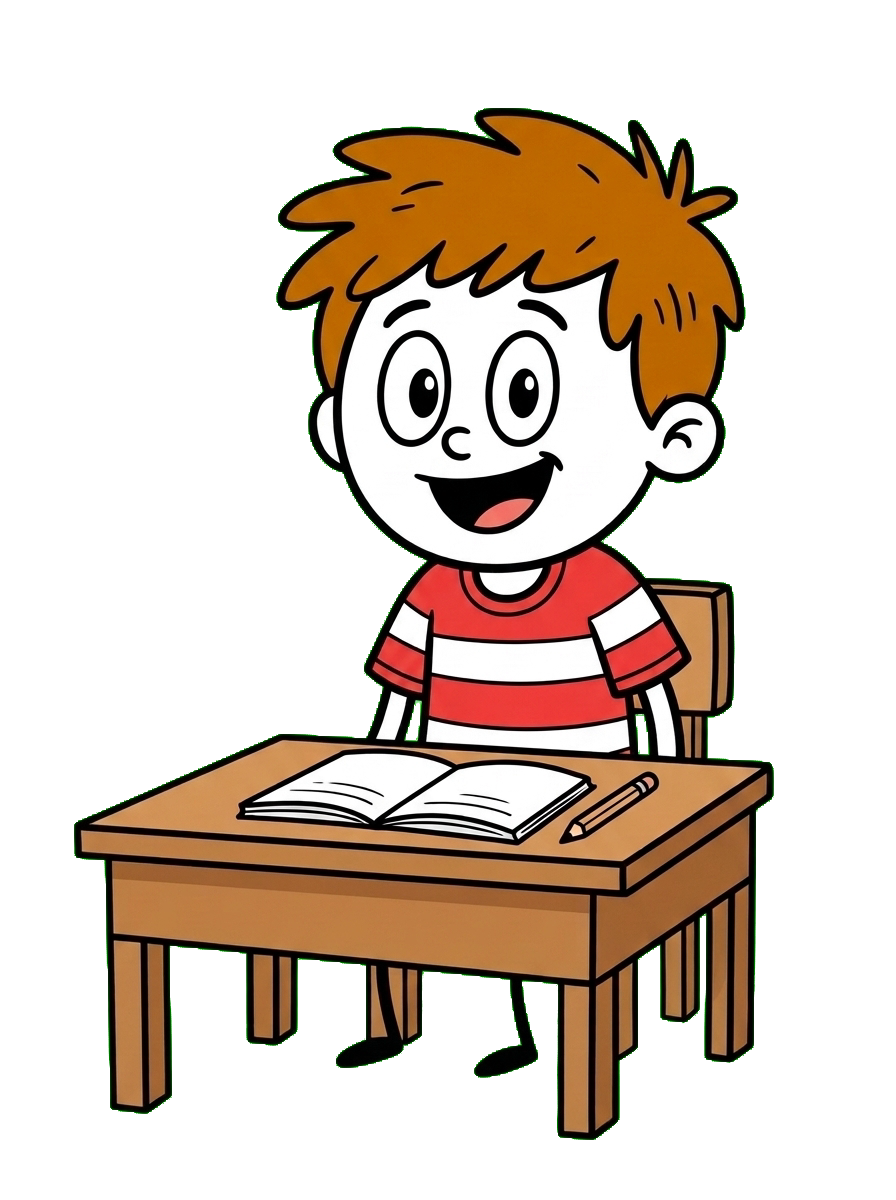
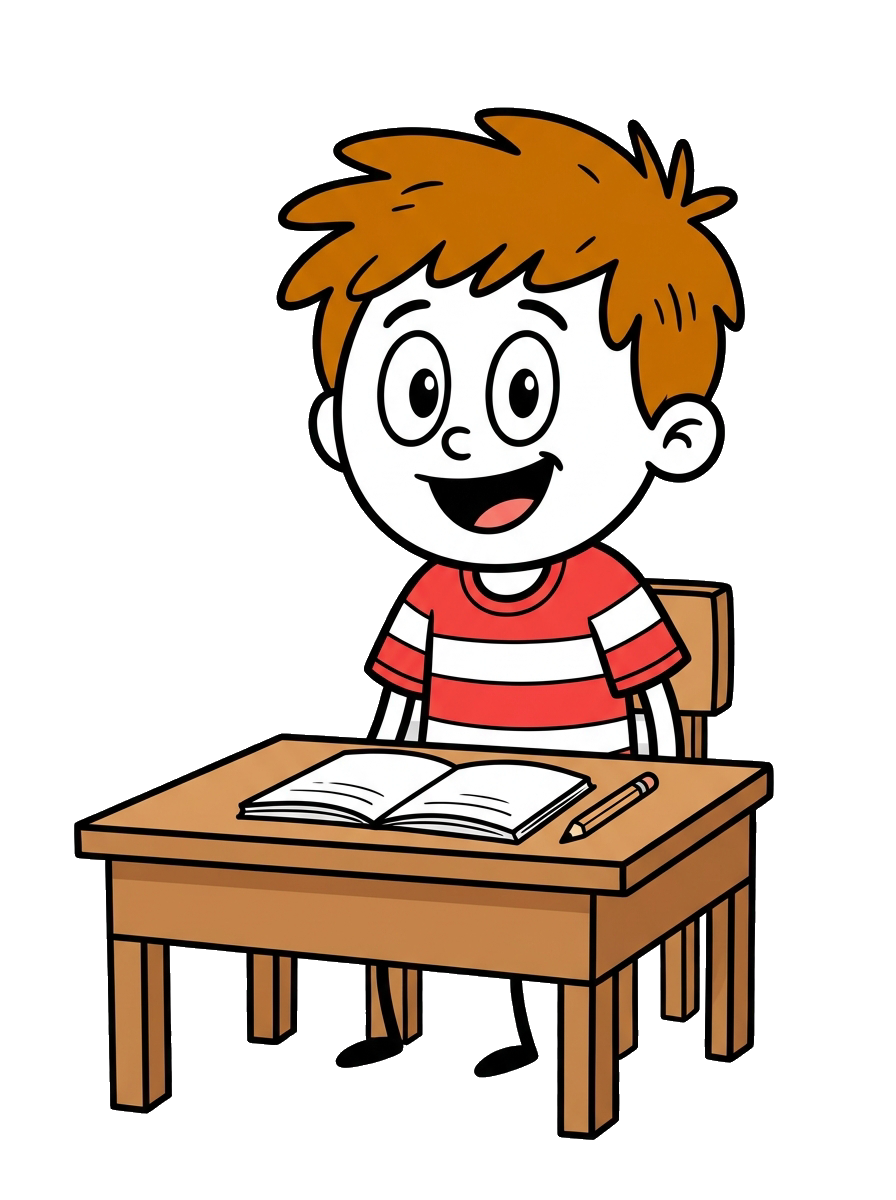
feat(video): professional academic cartoon classroom animation with synchronized gestures and document blackboard

diff --git a/backend/services/videoEngine.js b/backend/services/videoEngine.js
@@ -62,61 +62,105 @@ async function createVideoFromAudio(audioPath, script = '', durationSeconds = 60
   const rawScript = script || '';
   const lines = rawScript.split('\n').map(l => l.trim()).filter(Boolean);
 
-  let topicName = 'Quick Concept';
+  let topicName = 'Core Academic Concept';
   const points = [];
 
   lines.forEach(l => {
     if (l.toLowerCase().includes('topic:') || l.toLowerCase().includes('title:')) {
-      topicName = l.replace(/.*(?:topic|title):\s*/i, '').replace(/["']/g, '').trim().slice(0, 32);
+      const extracted = l.replace(/.*(?:topic|title):\s*/i, '').replace(/["'\[\]]/g, '').trim();
+      if (extracted.length > 2) topicName = extracted.slice(0, 34);
     }
     if (l.match(/^[-•*\d.]+\s+/)) {
-      points.push(l.replace(/^[-•*\d.]+\s*/, '').replace(/\*\*/g, '').replace(/__/g, '').trim().slice(0, 30));
+      const p = l.replace(/^[-•*\d.]+\s*/, '').replace(/\*\*/g, '').replace(/__/g, '').trim();
+      if (p.length > 3) points.push(p.slice(0, 34));
     }
   });
 
   if (points.length === 0) {
-    points.push('1. Core Architecture');
-    points.push('2. Process Workflow');
-    points.push('3. Exam Success Hack');
+    points.push('1. Foundational Architecture');
+    points.push('2. Process Control & Execution');
+    points.push('3. University Exam Key Rules');
   }
-
-  const boardText = `TOPIC: ${topicName.toUpperCase()}\\N\\N• ${points.slice(0, 3).join('\\N• ')}`;
 
   // Build dialogue phrases for ASS Subtitles
   const dialogueLines = [];
   lines.forEach(l => {
-    if (l.startsWith('[') || l.toLowerCase().includes('visual:')) return;
-    const cleanL = l.replace(/^(?:teacher|bunty|student|narration):\s*/i, '').trim();
+    if (l.startsWith('[') || l.toLowerCase().includes('visual:') || l.toLowerCase().startsWith('topic:')) return;
+    const isStudent = /^(?:student|bunty|learner|class):\s*/i.test(l);
+    const speaker = isStudent ? 'student' : 'teacher';
+    const cleanL = l.replace(/^(?:professor|teacher|student|bunty|sir|instructor|narrator|narration):\s*/i, '').trim();
     if (cleanL) {
-      const isBunty = l.toLowerCase().startsWith('bunty') || l.toLowerCase().startsWith('student');
-      const prefix = isBunty ? 'Bunty: ' : 'Teacher: ';
-      // Break into 2-4 word popup chunks
+      // Break into 3-4 word popup chunks
       const words = cleanL.split(/\s+/).filter(Boolean);
-      for (let i = 0; i < words.length; i += 3) {
+      for (let i = 0; i < words.length; i += 4) {
         dialogueLines.push({
-          speaker: isBunty ? 'bunty' : 'teacher',
-          text: (i === 0 ? prefix : '') + words.slice(i, i + 3).join(' ')
+          speaker,
+          isFirstChunk: i === 0,
+          text: words.slice(i, i + 4).join(' ')
         });
       }
     }
   });
 
   if (dialogueLines.length === 0) {
-    dialogueLines.push({ speaker: 'teacher', text: 'Teacher: Listen Class!' });
-    dialogueLines.push({ speaker: 'bunty', text: 'Bunty: Ready Sir!' });
-    dialogueLines.push({ speaker: 'teacher', text: 'Teacher: Master this Topic!' });
+    dialogueLines.push({ speaker: 'teacher', isFirstChunk: true, text: `Welcome to ${topicName} lecture!` });
+    dialogueLines.push({ speaker: 'student', isFirstChunk: true, text: 'Professor, how does it operate?' });
+    dialogueLines.push({ speaker: 'teacher', isFirstChunk: true, text: 'Notice the core syllabus principles!' });
   }
 
-  // 4. Build Cartoon Shorts ASS Subtitle File
+  const totalChars = dialogueLines.reduce((acc, d) => acc + d.text.length, 0) || 1;
+  let currentTime = 0;
+  const teacherIntervals = [];
+  const studentIntervals = [];
+
+  dialogueLines.forEach(item => {
+    const phraseDur = Math.max(1.1, (item.text.length / totalChars) * targetDuration);
+    const start = currentTime;
+    const end = Math.min(currentTime + phraseDur, targetDuration);
+    item.start = start;
+    item.end = end;
+    if (item.speaker === 'teacher') {
+      teacherIntervals.push({ start, end });
+    } else {
+      studentIntervals.push({ start, end });
+    }
+    currentTime = end;
+  });
+
+  const mergeIntervals = (invs) => {
+    if (!invs.length) return [];
+    const sorted = [...invs].sort((a, b) => a.start - b.start);
+    const merged = [sorted[0]];
+    for (let i = 1; i < sorted.length; i++) {
+      const prev = merged[merged.length - 1];
+      const curr = sorted[i];
+      if (curr.start <= prev.end + 0.15) {
+        prev.end = Math.max(prev.end, curr.end);
+      } else {
+        merged.push({ ...curr });
+      }
+    }
+    return merged;
+  };
+
+  const mTeacher = mergeIntervals(teacherIntervals);
+  const mStudent = mergeIntervals(studentIntervals);
+
+  const teacherCond = mTeacher.length > 0
+    ? `gte(${mTeacher.map(inv => `between(t,${inv.start.toFixed(2)},${inv.end.toFixed(2)})`).join('+')},1)`
+    : '1';
+
+  const studentCond = mStudent.length > 0
+    ? `gte(${mStudent.map(inv => `between(t,${inv.start.toFixed(2)},${inv.end.toFixed(2)})`).join('+')},1)`
+    : '0';
+
+  // 4. Build Professional Academic ASS Subtitle File
   const assName = `subs_${uuidv4()}.ass`;
   const assPath = path.join(OUT_DIR, assName);
   let hasAss = false;
   let relAssPath = '';
 
   try {
-    const totalChars = dialogueLines.reduce((acc, d) => acc + d.text.length, 0) || 1;
-    let currentTime = 0;
-
     const formatAssTime = (sec) => {
       const h = Math.floor(sec / 3600);
       const m = Math.floor((sec % 3600) / 60);
@@ -132,26 +176,26 @@ PlayResY: 1280
 
 [V4+ Styles]
 Format: Name, Fontname, Fontsize, PrimaryColour, SecondaryColour, OutlineColour, BackColour, Bold, Italic, Underline, StrikeOut, ScaleX, ScaleY, Spacing, Angle, BorderStyle, Outline, Shadow, Alignment, MarginL, MarginR, MarginV, Encoding
-Style: TopBanner,Arial,32,&H00000000,&H00000000,&H00FFFFFF,&HFFFFFFFF,-1,0,0,0,100,100,0,0,1,10,4,8,20,20,50,1
-Style: BottomBanner,Arial,28,&H00FFFFFF,&H00FFFFFF,&H00000000,&HFF000000,-1,0,0,0,100,100,0,0,1,8,3,2,20,20,35,1
-Style: BoardText,Arial,24,&H00F0FDF4,&H00000000,&H0014532D,&HB00F291E,-1,0,0,0,100,100,0,0,1,6,3,9,30,40,240,1
-Style: TeacherSpeech,Arial,56,&H0000FFFF,&H00FFFFFF,&H00000000,&H80000000,-1,0,0,0,100,100,0,0,1,7,3,5,25,25,410,1
-Style: BuntySpeech,Arial,56,&H00FFFFFF,&H0000FFFF,&H00000000,&H80000000,-1,0,0,0,100,100,0,0,1,7,3,5,25,25,410,1
+Style: TopHeader,Arial,25,&H00FFFFFF,&H00000000,&H000F172A,&HFF000000,-1,0,0,0,100,100,0,0,1,8,2,8,20,20,30,1
+Style: BoardTitle,Arial,25,&H0022D3EE,&H00000000,&H000F172A,&HFF000000,-1,0,0,0,100,100,0,0,1,7,2,8,45,45,78,1
+Style: BoardBullets,Arial,22,&H00F0FDF4,&H00000000,&H000F172A,&HFF000000,-1,0,0,0,100,100,0,0,1,7,2,8,45,45,118,1
+Style: BottomPill,Arial,24,&H00FFFFFF,&H00000000,&H000F172A,&HFF000000,-1,0,0,0,100,100,0,0,1,6,2,2,20,20,30,1
+Style: ActiveDialogue,Arial,38,&H00FFFFFF,&H00FFFFFF,&H00000000,&HB0000000,-1,0,0,0,100,100,0,0,1,8,3,8,25,25,315,1
 
 [Events]
 Format: Layer, Start, End, Style, Name, MarginL, MarginR, MarginV, Effect, Text
-Dialogue: 1,0:00:00.00,${formatAssTime(targetDuration)},TopBanner,,0,0,0,,{\\b1}Ek aisa teacher hum bhi deserve krte hai 😅😜{\\b0}
-Dialogue: 1,0:00:00.00,${formatAssTime(targetDuration)},BottomBanner,,0,0,0,,{\\b1}Wait for End 🤣📚 | Like & Share 🔥{\\b0}
-Dialogue: 1,0:00:00.00,${formatAssTime(targetDuration)},BoardText,,0,0,0,,{\\b1}${boardText}{\\b0}
+Dialogue: 1,0:00:00.00,${formatAssTime(targetDuration)},TopHeader,,0,0,0,,{\\b1}🎓 LECTURE: ${topicName.toUpperCase()} | CORE EXAM REVISION{\\b0}
+Dialogue: 1,0:00:00.00,${formatAssTime(targetDuration)},BoardTitle,,0,0,0,,{\\b1}📌 KEY SYLLABUS PRINCIPLES:{\\b0}
+Dialogue: 1,0:00:00.00,${formatAssTime(targetDuration)},BoardBullets,,0,0,0,,{\\b1}• 1. ${points[0] || 'Core Architecture'}\\N• 2. ${points[1] || 'Process Workflow'}\\N• 3. ${points[2] || 'Exam Takeaway'}{\\b0}
+Dialogue: 1,0:00:00.00,${formatAssTime(targetDuration)},BottomPill,,0,0,0,,{\\b1}📚 Notivexa Smart Study | Verified Document Lecture{\\b0}
 `;
 
     dialogueLines.forEach(item => {
-      const phraseDur = Math.max(1.0, (item.text.length / totalChars) * targetDuration);
-      const start = currentTime;
-      const end = Math.min(currentTime + phraseDur, targetDuration);
-      const styleName = item.speaker === 'bunty' ? 'BuntySpeech' : 'TeacherSpeech';
-      assContent += `Dialogue: 2,${formatAssTime(start)},${formatAssTime(end)},${styleName},,0,0,0,,{\\fscx85\\fscy85\\t(0,80,\\fscx100\\fscy100)}${item.text}\n`;
-      currentTime = end;
+      const isTeacher = item.speaker === 'teacher';
+      const prefix = item.isFirstChunk
+        ? (isTeacher ? '{\\c&H00D7FF&\\b1}[PROFESSOR]: {\\c&HFFFFFF&\\b0}' : '{\\c&HFFE259&\\b1}[STUDENT]: {\\c&HFFFFFF&\\b0}')
+        : (isTeacher ? '{\\c&H00D7FF&\\b1}• {\\c&HFFFFFF&\\b0}' : '{\\c&HFFE259&\\b1}• {\\c&HFFFFFF&\\b0}');
+      assContent += `Dialogue: 2,${formatAssTime(item.start)},${formatAssTime(item.end)},ActiveDialogue,,0,0,315,,{\\fscx90\\fscy90\\t(0,70,\\fscx100\\fscy100)}${prefix}${item.text}\n`;
     });
 
     fs.writeFileSync(assPath, assContent);
@@ -206,24 +250,28 @@ Dialogue: 1,0:00:00.00,${formatAssTime(targetDuration)},BoardText,,0,0,0,,{\\b1}
         complexFilter.push(`[${bgInputIdx}:v]format=rgba[bg]`);
       }
 
-      let currentScene = '[bg]';
+      // Add elegant classroom chalkboard frame on top
+      complexFilter.push(`[bg]drawbox=x=25:y=65:w=670:h=235:color=#061c14@0.90:t=fill[bg_board]`);
+      complexFilter.push(`[bg_board]drawbox=x=25:y=65:w=670:h=235:color=#10b981@0.85:t=3[bg_board_framed]`);
 
-      // Overlay Teacher on left side of classroom with animated idle breathing motion
+      let currentScene = '[bg_board_framed]';
+
+      // Overlay Teacher on left side with speaker-synchronized realistic gestures
       if (useTeacher) {
         complexFilter.push(`[${teacherInputIdx}:v]scale=-1:490,format=rgba[teacher]`);
-        complexFilter.push(`${currentScene}[teacher]overlay=x=15:y='440+4*sin(4*PI*t)':format=auto[scene_t]`);
+        complexFilter.push(`${currentScene}[teacher]overlay=x='18+if(${teacherCond}, 4*sin(3.5*PI*t), 0)':y='430+if(${teacherCond}, 7*sin(6*PI*t)+3*cos(12*PI*t), 2*sin(1.2*PI*t))':format=auto[scene_t]`);
         currentScene = '[scene_t]';
       }
 
-      // Overlay Student at desk in front right foreground with subtle motion
+      // Overlay Student at desk with speaker-synchronized inquisitive head/body movements
       if (useStudent) {
         complexFilter.push(`[${studentInputIdx}:v]scale=460:-1,format=rgba[student]`);
-        complexFilter.push(`${currentScene}[student]overlay=x=230:y='650+3*cos(3*PI*t)':format=auto[scene_s]`);
+        complexFilter.push(`${currentScene}[student]overlay=x='230+if(${studentCond}, 5*sin(3.5*PI*t), 0)':y='645+if(${studentCond}, 7*sin(5.5*PI*t)+3*cos(11*PI*t), 2*sin(1.0*PI*t))':format=auto[scene_s]`);
         currentScene = '[scene_s]';
       }
 
       // Add audio visualizer waveform across bottom desk line
-      complexFilter.push(`[a_wave]showwaves=s=720x130:colors=#06b6d4:mode=cline:rate=30,colorkey=black:0.1:0.1[wave]`);
+      complexFilter.push(`[a_wave]showwaves=s=720x120:colors=#10b981:mode=cline:rate=30,colorkey=black:0.1:0.1[wave]`);
       complexFilter.push(`${currentScene}[wave]overlay=0:H-h-110[out_wave]`);
 
       if (withSubtitles && hasAss && relAssPath) {

diff --git a/backend/services/aiService.js b/backend/services/aiService.js
@@ -786,34 +786,35 @@ ${promptChunk}`;
   return combined;
 }
 
-// FIXED: Generate YouTube Shorts style vertical video script
+// Generates professional, document-grounded animated classroom lecture Shorts script
 async function generateVideoScript(text, title, subject, lang = 'English') {
   const CHUNK = 8000;
   const chunks = [];
   for (let i = 0; i < text.length; i += CHUNK) chunks.push(text.slice(i, i + CHUNK));
-  const toProcess = chunks.slice(0, 1); // 1 chunk for a 60-second Short
+  const toProcess = chunks.slice(0, 1); // 1 chunk for a 45-60 second educational Short
 
-  const sysPrompt = `You are a viral YouTube Shorts scriptwriter for cartoon classroom comedy and educational animation reels (style of Cartoonwala and SinuRox).
-RULES:
-- Write an energetic, hilarious, yet deeply educational 45-60 second Classroom dialogue between a Teacher and a Backbencher Student (Bunty).
-- Structure format:
-[HOOK]
-Teacher: (Asks class a question about the document topic for 10 marks in tomorrow's exam)
-Bunty: (Gives a funny, witty, or relatable student response)
-[BODY]
-Teacher: (Corrects Bunty and explains the core concept from the document in 2-3 clear, punchy bullet points)
-Bunty: (Asks an intuitive question or has an 'Aha!' moment)
-Teacher: (Confirms the key takeaway)
-[OUTRO]
-Bunty: (Excitedly says he will top the exam)
-Teacher: (Call to action: Save this video, share with your study group, and follow!)
-- Keep the language lively Hinglish or English, natural and fast-paced.
-- Keep the whole narration under 140 words.`;
+  const sysPrompt = `You are a professional educational scriptwriter and academic animator.
+CRITICAL RULES:
+1. STRICT DOCUMENT GROUNDING: Use ONLY the concepts, definitions, and technical facts present in the provided document. DO NOT include generic jokes, meme humor, or unrelated comedy tropes.
+2. Structure format (Professional Classroom Lecture between Professor and Student):
+TOPIC: [Core Concept Name from document - max 4 words]
+[BOARD POINTS]
+• 1. [First key syllabus principle from document - max 6 words]
+• 2. [Second key mechanism/method from document - max 6 words]
+• 3. [Third key rule/impact from document - max 6 words]
+[DIALOGUE]
+Professor: Welcome class! Today we are analyzing [Core Concept]. Can anyone explain what problem it solves?
+Student: Professor, does [Core Concept] primarily ensure [First key principle from document]?
+Professor: Exactly! It establishes [Key explanation from document]. Furthermore, it [Second mechanism from document].
+Student: Understood! How does this directly affect [Third rule/impact from document]?
+Professor: Brilliant question! That ensures [Final technical takeaway from document]. Remember these three core principles on the board for your exam!
+3. TONE: Clear, academic, engaging, easy for university/high-school students to understand.
+4. Total dialogue length: 110-140 words (ideal for 45-60s short).`;
 
   const parts = [];
   for (let idx = 0; idx < toProcess.length; idx++) {
     const chunk = toProcess[idx];
-    const prompt = `Write the Cartoon Classroom comedy Shorts script for this topic.
+    const prompt = `Write the Professional Academic Classroom Shorts script based strictly on this document.
 Title: ${title} | Subject: ${subject}
 
 Document Content:

diff --git a/backend/services/pdfEngine.js b/backend/services/pdfEngine.js
@@ -749,23 +749,23 @@ function makePodcastScript(text, title, subject) {
 function makeVideoScript(text, title, subject) {
   const defs = getDefinitions(text, 5);
   const facts = getKeyFacts(text, 5);
-  const coreTerm = defs[0]?.term || subject || title || 'this topic';
-  const coreFact = facts[0] ? facts[0].replace(/\.$/, '') : `The primary concept of ${coreTerm} governs system behavior`;
-  const extraFact = facts[1] ? facts[1].replace(/\.$/, '') : `It ensures high reliability and structured execution`;
-  const extraFact2 = facts[2] ? facts[2].replace(/\.$/, '') : `It is applied widely in real-world implementations`;
+  const coreTerm = defs[0]?.term || subject || title || 'Core Concept';
+  const cleanTerm = coreTerm.replace(/^[#\-*\d.]+\s*/, '').slice(0, 32).trim();
+  const point1 = facts[0] ? facts[0].replace(/\.$/, '').slice(0, 48) : `${cleanTerm} defines foundational architecture`;
+  const point2 = facts[1] ? facts[1].replace(/\.$/, '').slice(0, 48) : `Ensures optimal process and control flow`;
+  const point3 = facts[2] ? facts[2].replace(/\.$/, '').slice(0, 48) : `Essential benchmark for academic evaluations`;
 
-  return `[HOOK]
-Teacher: Bunty! Pay attention! Who can explain ${coreTerm} for 10 marks in tomorrow's exam?
-Bunty: Sir, in our group we pass exams using God's blessings and tukka!
-
-[BODY]
-Teacher: Arre Bunty! Listen carefully: ${coreFact}. Furthermore, ${extraFact}.
-Bunty: Wait Sir, does that mean ${extraFact2}?
-Teacher: Exactly Bunty! Now you finally understand the real concept!
-
-[OUTRO]
-Bunty: Arey waah Sir! Ab to paper me full marks aayenge!
-Teacher: Then save this video, share it with your backbencher friends, and follow for more quick exam hacks!`;
+  return `TOPIC: ${cleanTerm}
+[BOARD POINTS]
+• 1. ${point1.slice(0, 36)}
+• 2. ${point2.slice(0, 36)}
+• 3. ${point3.slice(0, 36)}
+[DIALOGUE]
+Professor: Welcome class. Today we are analyzing ${cleanTerm}. Can anyone define its core function from our syllabus?
+Student: Professor, does ${cleanTerm} primarily establish ${point1}?
+Professor: Exactly! ${point1}. In addition, ${point2}.
+Student: That clarifies it! How does this connect to ${point3}?
+Professor: Excellent question! It directly governs execution stability. Keep these three principles on the board memorized for your upcoming exam!`;
 }
 
 function makePPT(text, title, subject) {
